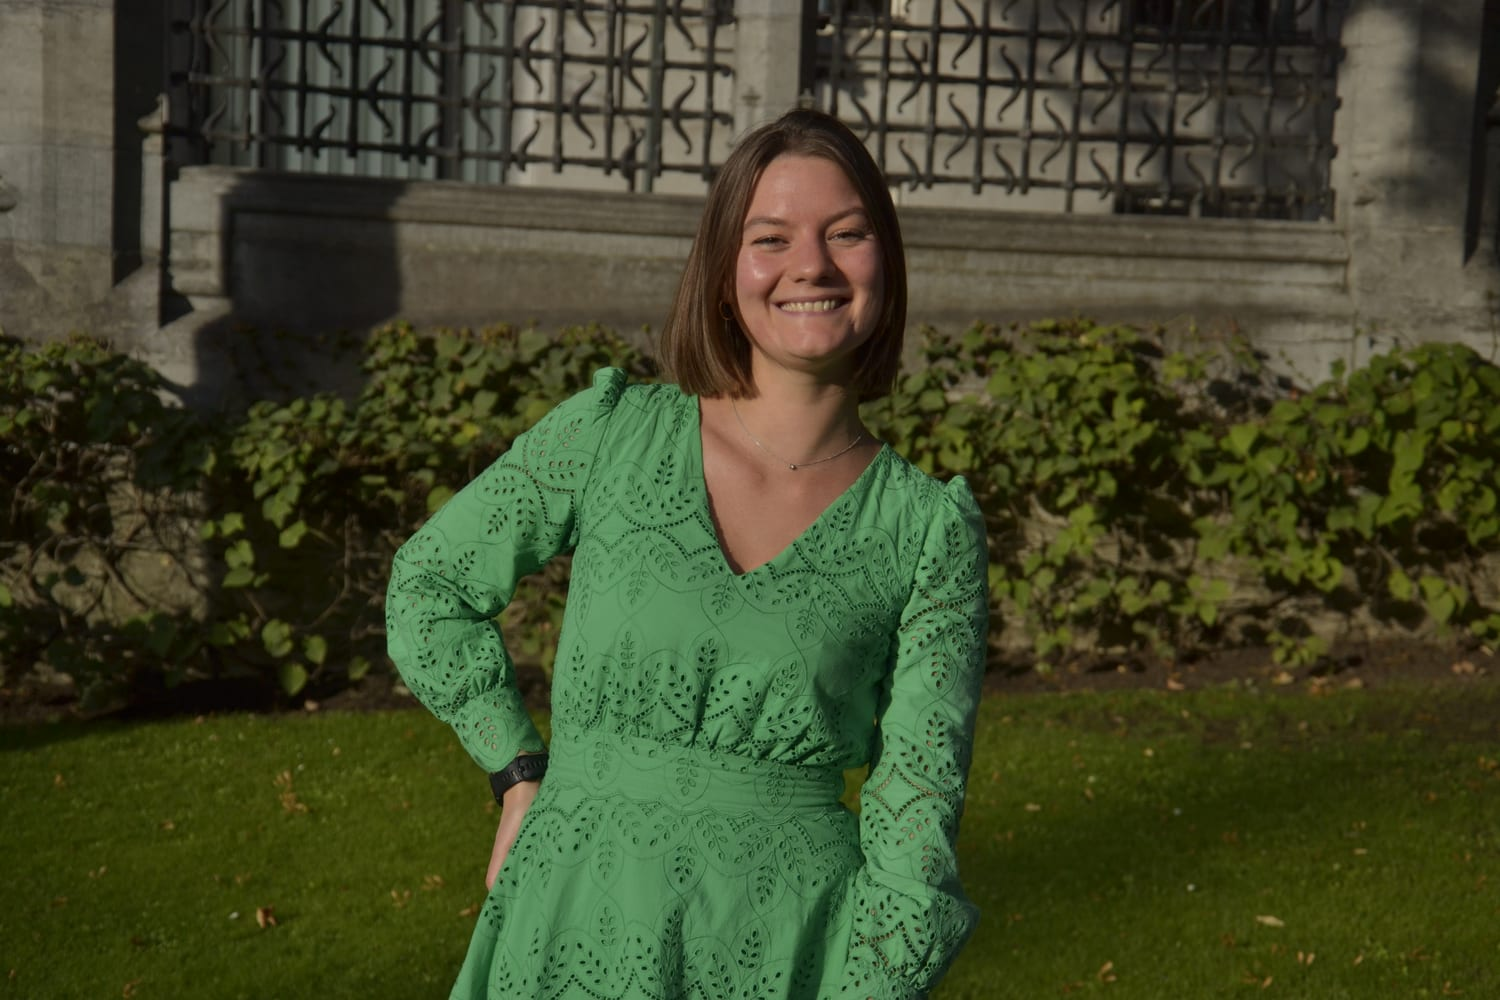
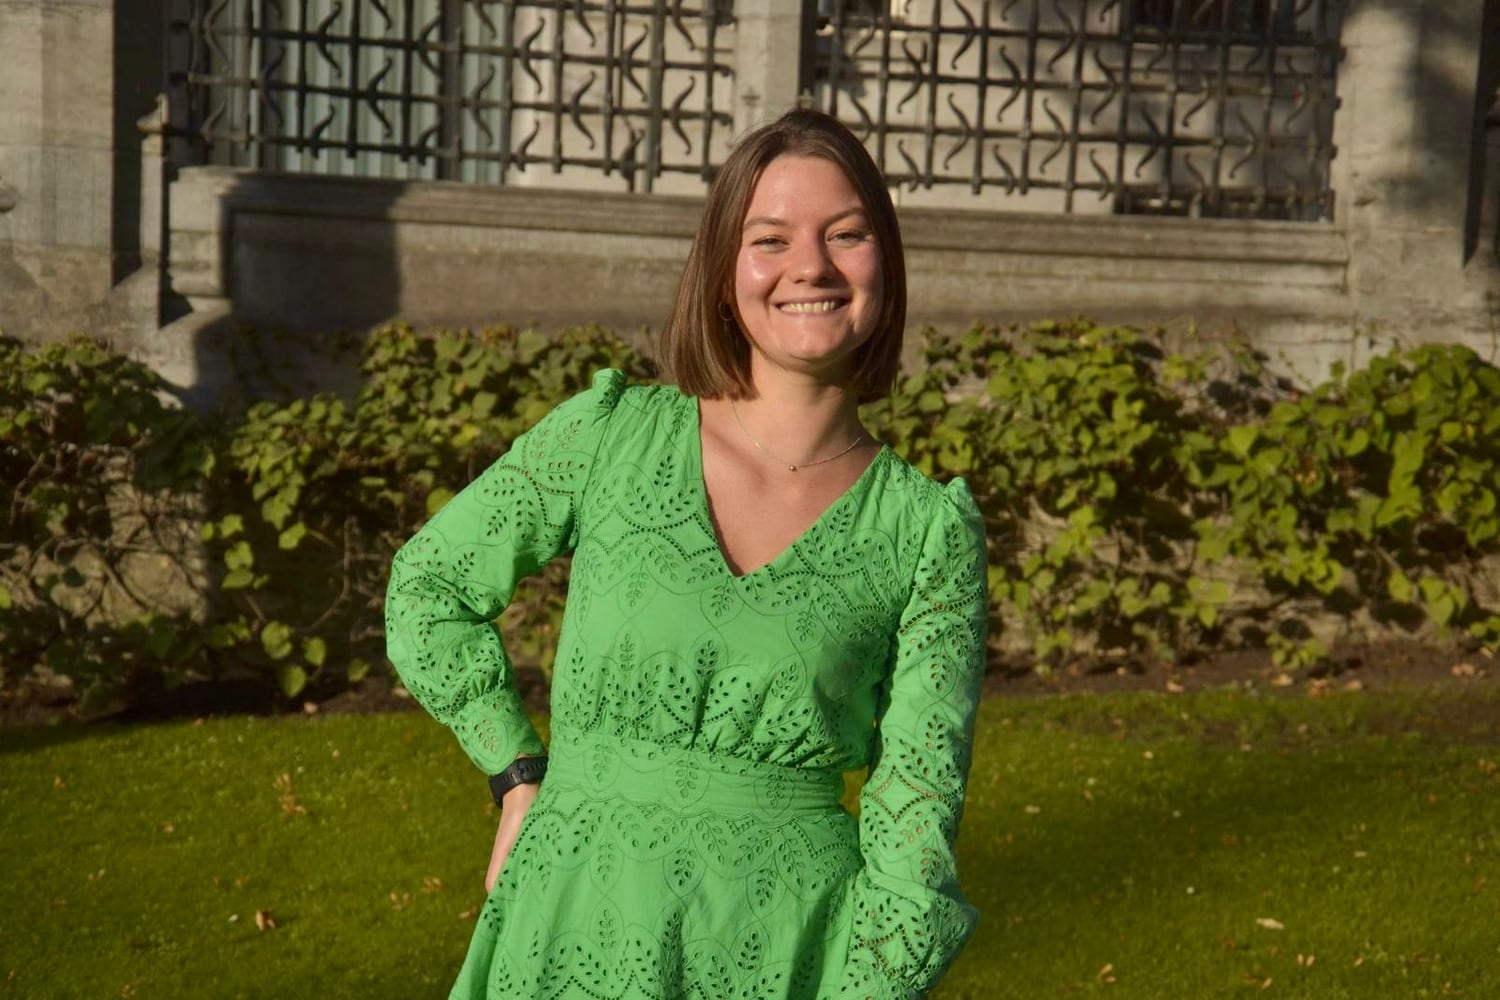
Donner sa ligne directe à Floriane Delplancke et remplacer le portrait de Camille Vandeput

diff --git a/src/data/avocates.js b/src/data/avocates.js
@@ -12,7 +12,7 @@ export const AVOCATES = [
     motsCles: ['Droit de la jeunesse', 'Droit de la famille', 'Droit des étrangers'],
     langues: ['Français', 'Anglais'],
     email: 'f.delplancke@avocat.be',
-    tel: null, // ligne professionnelle en cours d'attribution
+    tel: '0471 93 57 63',
     tva: 'BE 0666.604.190',
     linkedin: null,
     cabinets: { present: 'Egidia', passe: 'Alter Egaux' },

diff --git a/ARCHITECTURE.md b/ARCHITECTURE.md
@@ -500,8 +500,7 @@ Canoniques, plan du site, robots.txt et `@id` du JSON-LD dérivent tous de
 - L'épingle de la carte est posée par géocodage de l'adresse ; `CONTACT.coords`
   ne sert plus qu'à documenter le lieu — **à faire confirmer par le cabinet**
   avant mise en ligne.
-- Pas de numéro général pour le cabinet ; Floriane Delplancke n'a pas encore de
-  ligne directe (sa fiche affiche « Ligne directe à venir »).
+- Pas de numéro général pour le cabinet.
 - LinkedIn absent pour Delplancke, Doyen, Ghymers et Vryens.
 - Liens utiles pour « Droit des MENA » — marqués `[Ajouter]` dans le PDF source.
 - Pas de fiche d'établissement Google (Google Business Profile) : c'est elle
